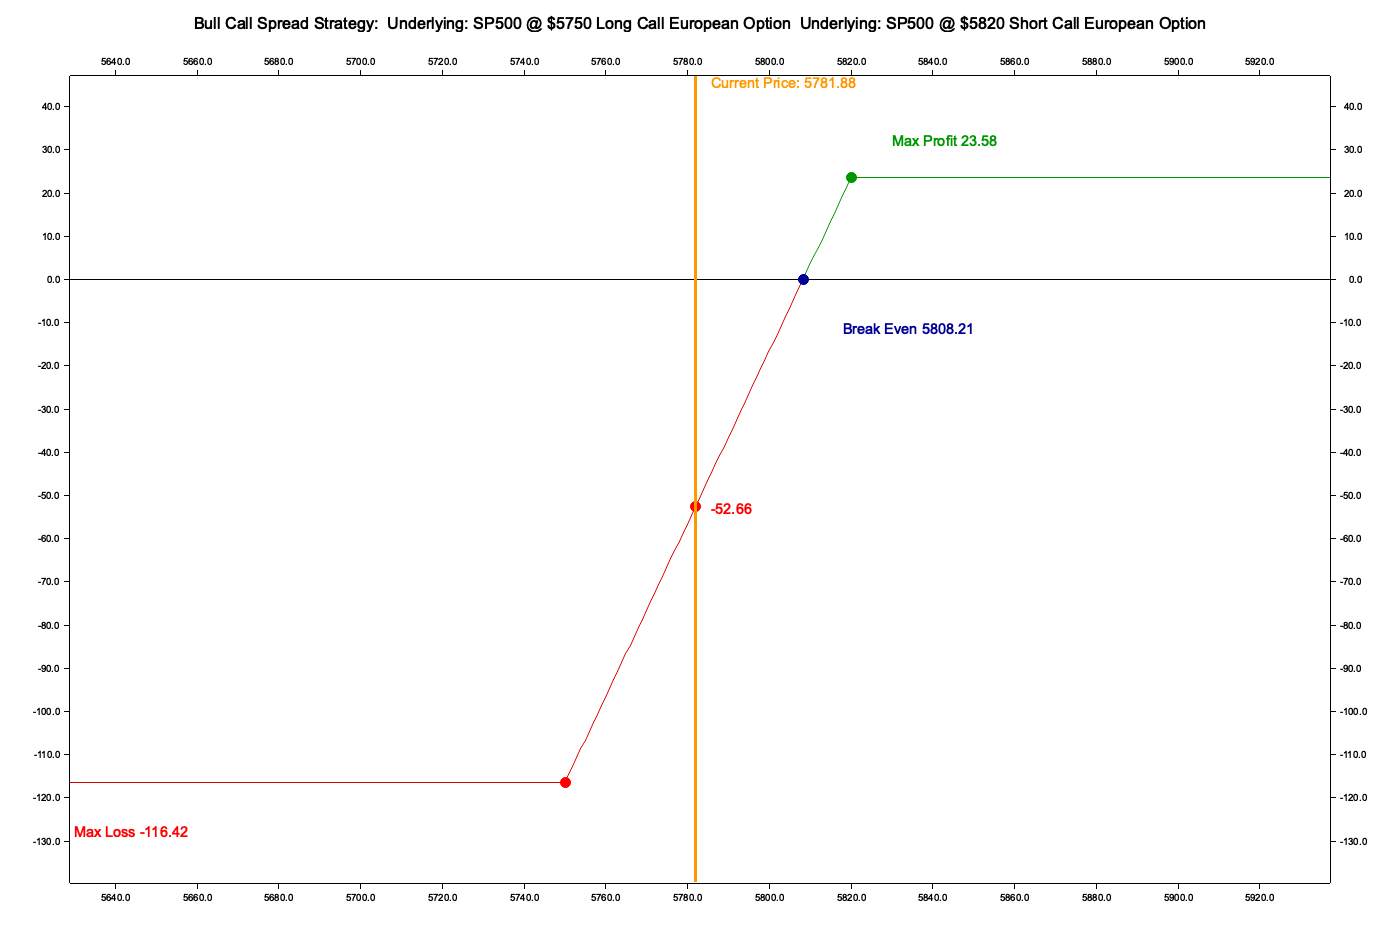
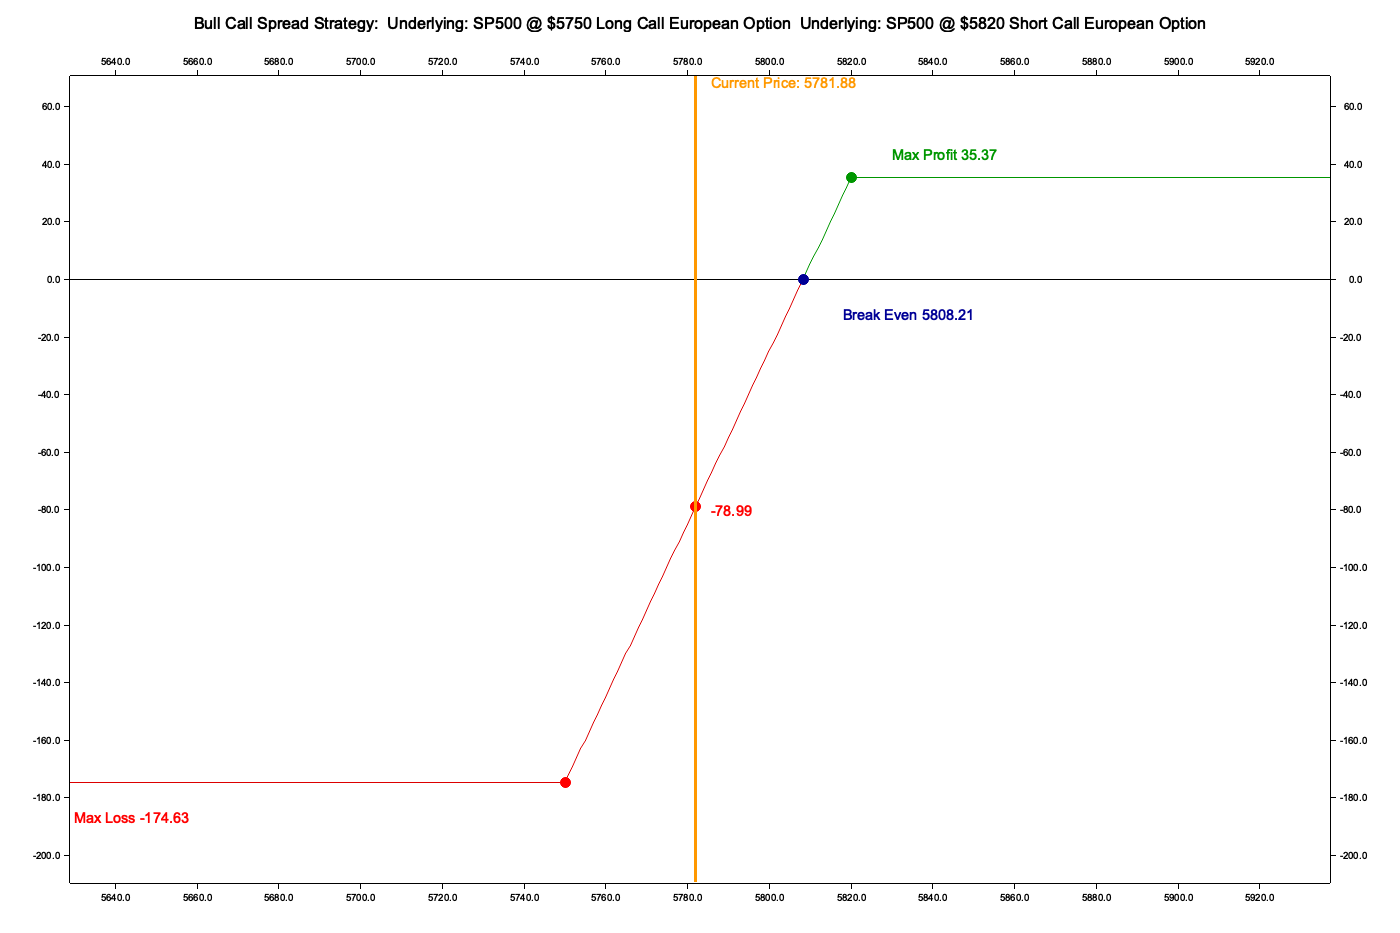
Remove unused `fees` function and update long quantity
The `fees` function in `bull_call_spread.rs` was removed as it is no longer in use, improving code clarity. Additionally, the long quantity in the example strategy was updated from 2.0 to 3.0 to reflect a different scenario. (ref. #83)

diff --git a/src/strategies/bull_call_spread.rs b/src/strategies/bull_call_spread.rs
@@ -218,14 +218,6 @@ impl Strategies for BullCallSpread {
         Ok(Decimal::from_f64(result).unwrap())
     }
 
-    fn fees(&self) -> Result<Decimal, StrategyError> {
-        let result = self.long_call.open_fee
-            + self.long_call.close_fee
-            + self.short_call.open_fee
-            + self.short_call.close_fee;
-        Ok(Decimal::from_f64(result).unwrap())
-    }
-
     fn profit_area(&self) -> Result<Decimal, StrategyError> {
         let high = self.max_profit().unwrap_or(Positive::ZERO);
         let base = self.short_call.option.strike_price - self.break_even_points[0];

diff --git a/examples/examples_strategies/src/bin/strategy_bull_call_spread.rs b/examples/examples_strategies/src/bin/strategy_bull_call_spread.rs
@@ -28,7 +28,7 @@ fn main() -> Result<(), Box<dyn Error>> {
         pos!(0.18),     // implied_volatility
         dec!(0.05),     // risk_free_rate
         Positive::ZERO, // dividend_yield
-        pos!(2.0),      // long quantity
+        pos!(3.0),      // long quantity
         85.04,          // premium_long
         29.85,          // premium_short
         0.78,           // open_fee_long
